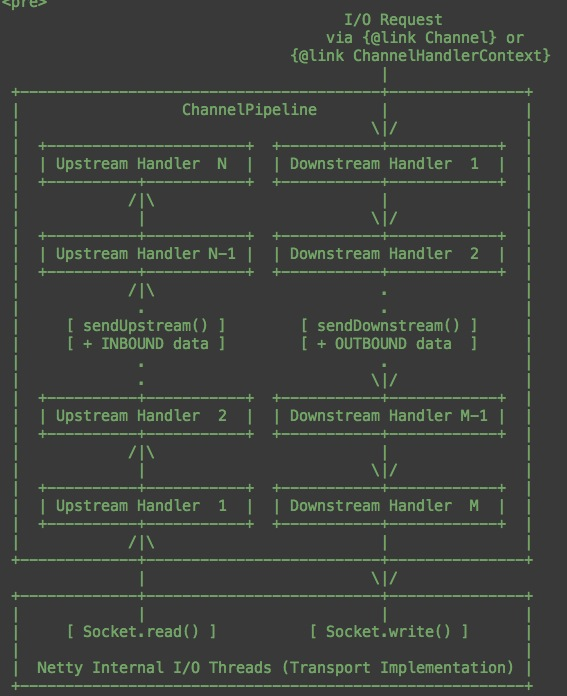
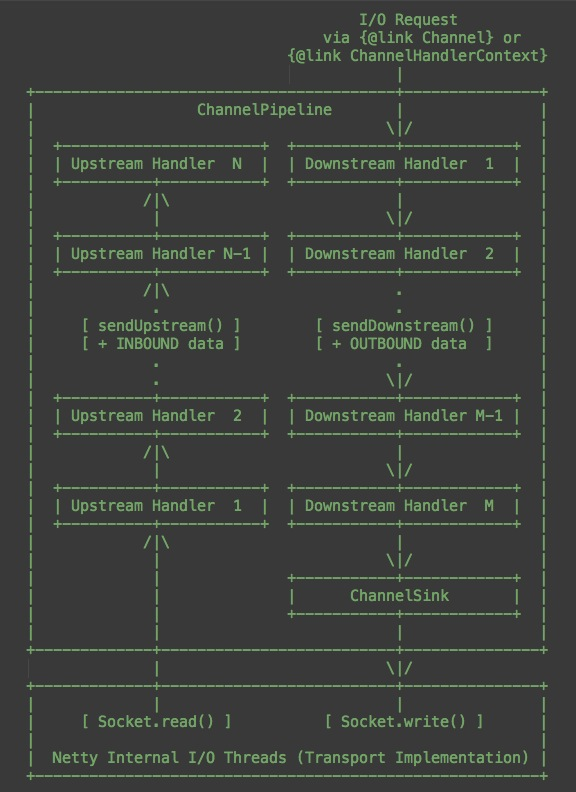
add pipeling

Changed region(s): [[0.0, 0.0, 0.9894, 0.9957], [0.0, 0.0, 0.0899, 0.0302], [0.8695, 0.4828, 0.8995, 0.5129]]

diff --git a/ch3-pipeline.md b/ch3-pipeline.md
@@ -2,58 +2,23 @@ Netty中的管道
 --------
 >尚未完成
 
-Pipeline是理解Netty的核心。之前在概述中粗略讲到了事件驱动机制，在这篇文章中，我们将详细分析Pipeline的实现。
+Pipeline是理解和使用Netty的核心。之前在概述中粗略讲到了事件驱动机制，在这篇文章中，我们将详细分析Pipeline及其的实现。
 
-Netty的Pipeline包含两条流线路：Upstream和Downstream
+Netty的Pipeline包含两条线路：Upstream和Downstream。这部分Netty的`ChannelPipeline`接口的javadoc里有一个非常形象的图，我就直接引用了(我对原图进行了一点修改，加上了`ChannelSink`，因为我觉得这部分对理解代码流程会有些帮助)：
+
+![channel pipeline][1]
 
 这里的pipeline机制是这样的：
 
 首先handler分为Upstream和Downstream两类。然后每个handler会接收到一个事件，如果需要继续处理，那么**它会发起一个事件**，这个事件只有它之后的handler会接收到。**如果它不再发起事件，那么处理就到此结束。**
 
-                                          I/O Request
-                                        via {@link Channel} or
-                                    {@link ChannelHandlerContext}
-                                              |
-     +----------------------------------------+---------------+
-     |                  ChannelPipeline       |               |
-     |                                       \|/              |
-     |  +----------------------+  +-----------+------------+  |
-     |  | Upstream Handler  N  |  | Downstream Handler  1  |  |
-     |  +----------+-----------+  +-----------+------------+  |
-     |            /|\                         |               |
-     |             |                         \|/              |
-     |  +----------+-----------+  +-----------+------------+  |
-     |  | Upstream Handler N-1 |  | Downstream Handler  2  |  |
-     |  +----------+-----------+  +-----------+------------+  |
-     |            /|\                         .               |
-     |             .                          .               |
-     |     [ sendUpstream() ]        [ sendDownstream() ]     |
-     |     [ + INBOUND data ]        [ + OUTBOUND data  ]     |
-     |             .                          .               |
-     |             .                         \|/              |
-     |  +----------+-----------+  +-----------+------------+  |
-     |  | Upstream Handler  2  |  | Downstream Handler M-1 |  |
-     |  +----------+-----------+  +-----------+------------+  |
-     |            /|\                         |               |
-     |             |                         \|/              |
-     |  +----------+-----------+  +-----------+------------+  |
-     |  | Upstream Handler  1  |  | Downstream Handler  M  |  |
-     |  +----------+-----------+  +-----------+------------+  |
-     |            /|\                         |               |
-     +-------------+--------------------------+---------------+
-                   |                         \|/
-     +-------------+--------------------------+---------------+
-     |             |                          |               |
-     |     [ Socket.read() ]          [ Socket.write() ]      |
-     |                                                        |
-     |  Netty Internal I/O Threads (Transport Implementation) |
-     +--------------------------------------------------------+
 
 
-![universal API][1]
 
-![channel pipeline][2]
+![universal API][2]
 
-  [1]: http://static.oschina.net/uploads/space/2013/1109/073639_dgV1_190591.png
+
+
+  [1]: http://static.oschina.net/uploads/space/2013/1109/075339_Kjw6_190591.png
   [2]: http://static.oschina.net/uploads/space/2013/1108/234357_DeN0_190591.png
   [3]: http://static.oschina.net/uploads/space/2013/1108/234411_gvSE_190591.png

diff --git a/README.md b/README.md
@@ -9,8 +9,8 @@ Netty目前有两个分支：4.x和3.x。4.0分支重写了很多东西，并对
 
 ### [1.概述](https://github.com/code4craft/netty-learning/blob/master/ch1-overview.md)
 ### [2.Buffer](https://github.com/code4craft/netty-learning/blob/master/ch2-buffer.md)
-### [3.ChannelHandler及Pipeline](https://github.com/code4craft/netty-learning/blob/master/ch4-pipeline.md) *未完成*
-### [4.Channel与NIO](https://github.com/code4craft/netty-learning/blob/master/ch3-channel.md) *未完成*
+### [3.ChannelHandler及Pipeline](https://github.com/code4craft/netty-learning/blob/master/ch3-pipeline.md) *未完成*
+### [4.Channel与NIO](https://github.com/code4craft/netty-learning/blob/master/ch4-channel.md) *未完成*
 ### [5.协议支持](https://github.com/code4craft/netty-learning/blob/master/ch5-codec.md) *未完成*
 
 ## Netty实战
